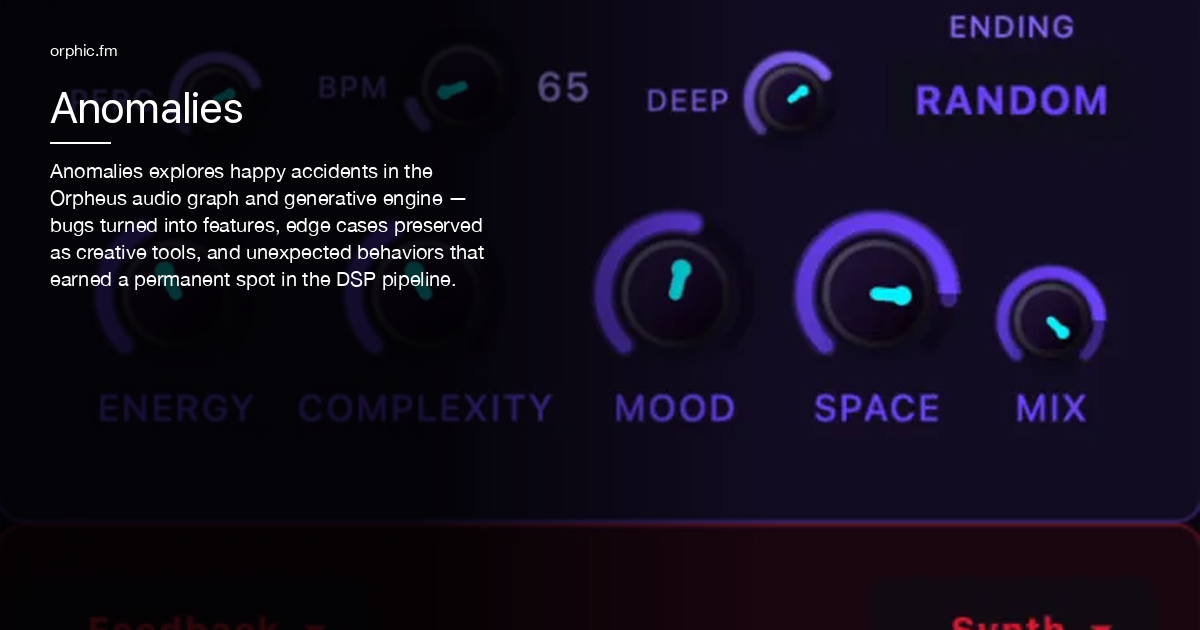
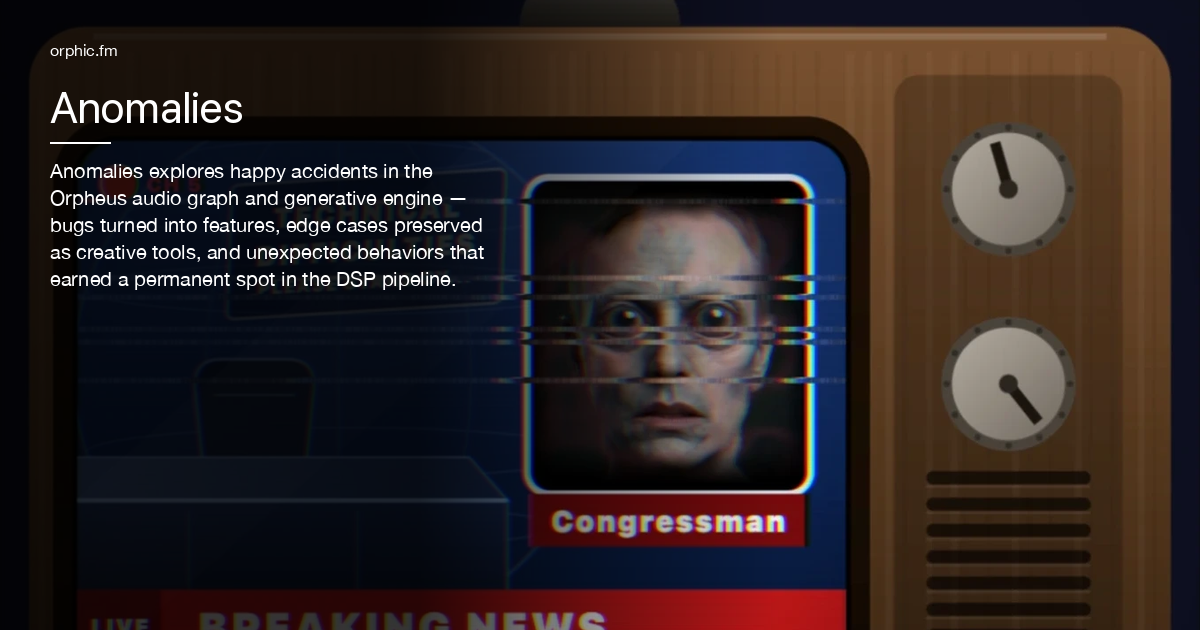
Add Stay Asleep track and merge Rust Belt into Anomalies
Stay Asleep ships as the featured track, with a poster pulled from its
new TV/face-morph visualizer. Rust Belt (finished earlier on a separate
branch) merges in alongside it as track 2. Also:

- Re-encodes Stay Asleep's video: the source was variable-frame-rate
  (declared 120fps, actual ~65fps) which decoded audio/duration fine
  but rendered no visible frames in-browser; fixed to constant 30fps
  + faststart.
- Normalizes Stay Asleep's audio (-18.5 LUFS was notably hotter than
  sibling tracks) down to -23 LUFS.
- Replaces the shared Anomalies album art with a new image, cropped
  to remove pillarboxing.
- Corrects Lost in Space's mislabeled 0:20 duration to 2:55.
- Fixes a latent Ruby encoding crash in generate-devlog-pages.rb that
  wiped the generated devlog pages on non-ASCII content.

diff --git a/_tools/generate-devlog-pages.rb b/_tools/generate-devlog-pages.rb
@@ -1,4 +1,5 @@
 #!/usr/bin/env ruby
+# encoding: UTF-8
 # Generates per-song devlog redirect pages so each track gets its own
 # shareable URL with correct OG meta tags.
 #
@@ -11,6 +12,14 @@
 require "yaml"
 require "date"
 require "fileutils"
+
+# Force UTF-8 for all file reads regardless of the invoking shell's locale.
+# Without this, a shell with no LANG/LC_ALL set makes Ruby default external
+# encoding to US-ASCII, and reading album/track markdown containing non-ASCII
+# characters (curly quotes, em-dashes, etc.) raises ArgumentError partway
+# through the loop below, after the destructive cleanup on line ~30 has
+# already run.
+Encoding.default_external = Encoding::UTF_8
 
 ROOT = File.expand_path("..", __dir__)
 DEVLOG_DIR = File.join(ROOT, "devlog")

diff --git a/_albums/anomalies/StayAsleep.md b/_albums/anomalies/StayAsleep.md
@@ -1,0 +1,19 @@
+---
+layout: album
+title: "Stay Asleep"
+description: "A slow blues vibe on an empty street that needs help waking up. A new viz that shows what's really going on behind the scenes.<br>My homage to a classic."
+date: 2026-09-20
+album: "Anomalies"
+track: 3
+length: "2:19"
+video_url: "https://orphic-fm-video.orphic-fm.workers.dev/anomalies-assets/StayAsleep.mp4"
+poster_url: "/assets/albums/2026-07-18-Anomalies/StayAsleepPoster.png"
+aspect_ratio: "1200/1080"
+tags: ["human", "pulsar", "dj", "tv", "noir"]
+featuredSong: true
+tech_blurb: "A one-pass 'sound walk' pulsar vibe — bass, DX keys, street sounds, one spoken line — paired with a purpose-built visualizer: a news broadcast whose face dissolves as the song plays."
+tech_content: |
+  Built in [`69933cf98`](https://github.com/balch/orphic-fm-app/commit/69933cf985e98a21a52c7bd5020fbcf644c34af6) as [StayAsleepVibe.kt](https://github.com/balch/orphic-fm-app/blob/main/features/pulsar/src/commonMain/kotlin/org/balch/orpheus/features/pulsar/vibes/StayAsleepVibe.kt): a one-pass sound walk that plays once and hands off — OSC bass sliding from the fourth down to the root under a single ringing kick, DX keys answering at twice the bass's rate, off-eighth re-picks in the alley and the chase, street footsteps, a passing train, sirens, and one spoken line held back for the closing `awake` section. That line was tuned in [`0b079532c`](https://github.com/balch/orphic-fm-app/commit/0b079532ce521ac27adfd578ed82bca792a7bba0) and [`c4bf61abc`](https://github.com/balch/orphic-fm-app/commit/c4bf61abcaf5e0dde9729374ad6020e2c3033eb9) so the setup and punchline land once, on the last downbeat, instead of repeating through the chase. A matching visualizer shipped alongside it: [FaceMorphViz.kt](https://github.com/balch/orphic-fm-app/blob/main/features/visualizations/src/commonMain/kotlin/org/balch/orpheus/features/visualizations/viz/FaceMorphViz.kt) draws a news broadcast on an old TV set, rabbit ears and all, whose story graphic is a face that dissolves eyes-first as the song plays — surging on loud passages, snapping to black-and-white on kicks, tearing on drum hits — introduced in [`1c6bb331c`](https://github.com/balch/orphic-fm-app/commit/1c6bb331ca175de6dd8ab443b0494064a20bcfa7).
+tech_url: "https://github.com/balch/orphic-fm-app/commit/69933cf985e98a21a52c7bd5020fbcf644c34af6"
+og_image: "/assets/albums/2026-07-18-Anomalies/og-stay-asleep.png"
+---

diff --git a/_albums/anomalies/LostInSpace.md b/_albums/anomalies/LostInSpace.md
@@ -5,7 +5,7 @@ description: "I've used the term Anomaly for a long time to describe issues I se
 date: 2026-07-18
 album: "Anomalies"
 track: 1
-length: "0:20"
+length: "2:55"
 video_url: "https://orphic-fm-video.orphic-fm.workers.dev/anomalies-assets/LostInSpace.mp4"
 poster_url: "/assets/albums/2026-07-18-Anomalies/poster.webp"
 aspect_ratio: "720/1552"

diff --git a/_albums/anomalies/RustBelt.md b/_albums/anomalies/RustBelt.md
@@ -5,7 +5,6 @@ description: "New vibe to showcase the weather effects. Thunderclaps, rolling th
 date: 2026-09-06
 album: "Anomalies"
 track: 2
-featuredSong: true
 length: "3:35"
 video_url: "https://orphic-fm-video.orphic-fm.workers.dev/anomalies-assets/RustBelt.mp4"
 poster_url: "/assets/albums/2026-07-18-Anomalies/RustBeltPoster.jpg"
